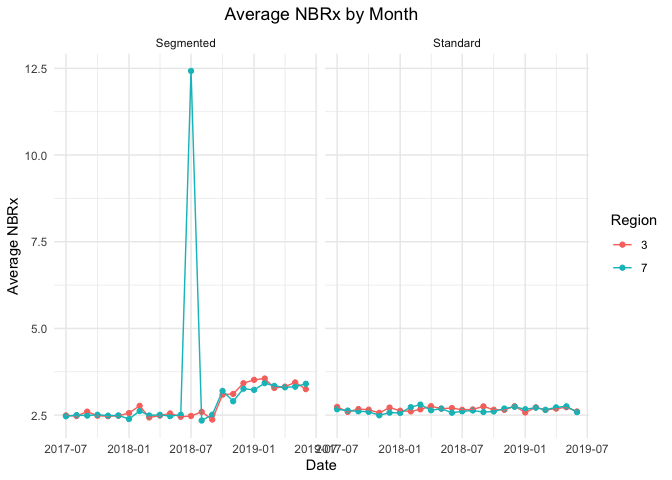
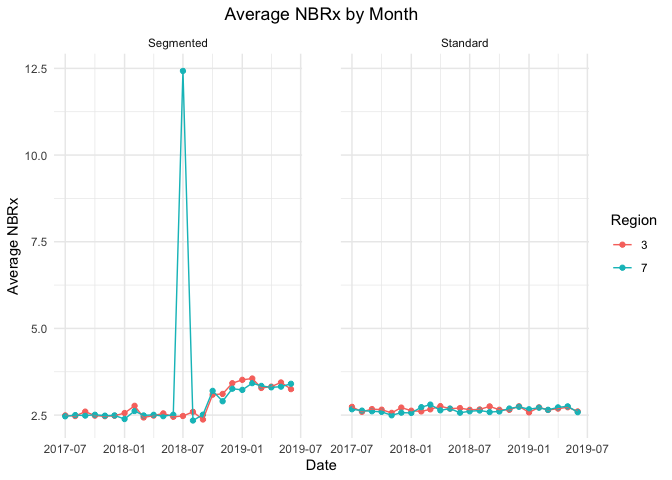
add plot spacing in facet_wrap

diff --git a/takeda_case_study.md b/takeda_case_study.md
@@ -136,7 +136,8 @@ nbrx_df %>%
     y = "Average NBRx",
     color = "Region") +
   geom_line() +
-  facet_wrap( ~ message_delivered)
+  facet_wrap( ~ message_delivered) +
+  theme(panel.spacing = unit(2, "lines"))
 ```
 
     ## `summarise()` has grouped output by 'date', 'region'. You can override using the `.groups` argument.
